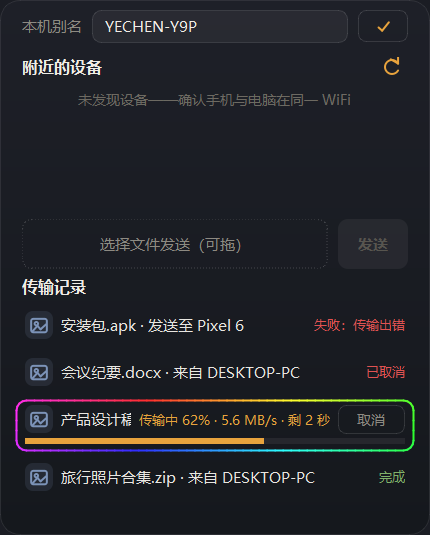
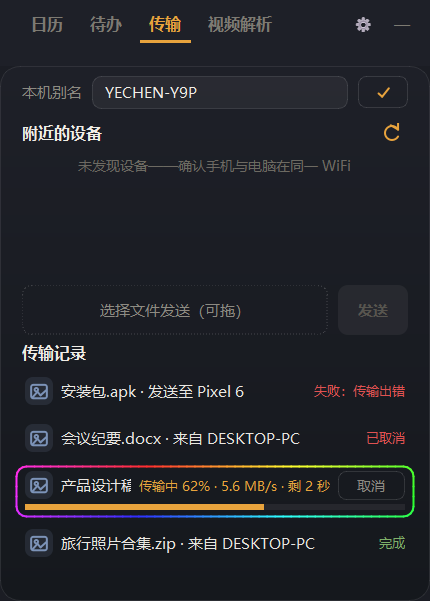
docs(readme): 截图表格加标题行，传输/视频图补上顶部 tab 栏

diff --git a/selfshot.py b/selfshot.py
@@ -17,7 +17,7 @@ import threading
 from datetime import date, datetime, timedelta
 
 from PySide6.QtCore import Qt, QTimer, QPoint, QBuffer
-from PySide6.QtGui import QImage, QPainter, QColor, QFont
+from PySide6.QtGui import QImage, QPainter, QColor, QFont, QPixmap
 from PySide6.QtWidgets import QApplication, QMenu
 
 import app as ui
@@ -58,6 +58,34 @@ def run(shot_dir, panel, cfg, tstore, qapp):
     os.makedirs(shot_dir, exist_ok=True)
     runner = _Runner(shot_dir, panel, cfg, tstore, qapp)
     runner.start()
+
+
+class _ComboShot(object):
+    """标题栏 + 面板拼成一张图：标题栏是独立顶层窗口，分别 grab 后纵向拼接。"""
+
+    def __init__(self, panel):
+        self._p = panel
+
+    def ensurePolished(self):
+        self._p.titlebar.ensurePolished()
+        self._p.ensurePolished()
+
+    def width(self):
+        return max(self._p.titlebar.width(), self._p.width())
+
+    def height(self):
+        return self._p.titlebar.height() + self._p.height()
+
+    def grab(self):
+        tb = self._p.titlebar.grab()
+        pn = self._p.grab()
+        pm = QPixmap(max(tb.width(), pn.width()), tb.height() + pn.height())
+        pm.fill(Qt.transparent)
+        pt = QPainter(pm)
+        pt.drawPixmap(0, 0, tb)
+        pt.drawPixmap(0, tb.height(), pn)
+        pt.end()
+        return pm
 
 
 class _FakeBoxMgr(object):
@@ -182,8 +210,9 @@ class _Runner(object):
                      lambda: (p.set_tab(2, save=False), self._make_busy_transfer()),
                      lambda: p, teardown=self._clear_busy_transfer)
             self.job('%s_transfer_records' % theme, 400,
-                     lambda: (p.set_tab(2, save=False), self._make_records_transfer()),
-                     lambda: p, teardown=self._clear_records_transfer)
+                     lambda: (p.set_tab(2, save=False), self._make_records_transfer(),
+                              p._slide_titlebar(True)),
+                     lambda: _ComboShot(p), teardown=self._clear_records_transfer)
             self.job('%s_video' % theme, 400,
                      lambda: p.set_tab(3, save=False), lambda: p)
             self.job('%s_video_parsed' % theme, 400,
@@ -344,6 +373,7 @@ class _Runner(object):
             self._rec_keys.append(key)
 
     def _clear_records_transfer(self):
+        self.panel._slide_titlebar(False)
         try:
             t = self.panel.transfer
             for key in getattr(self, '_rec_keys', []):

diff --git a/README.md b/README.md
@@ -10,9 +10,14 @@ Windows 桌面整理工具：桌面格子 + 悬浮面板（日历 / 待办 / 传
 
 <table>
   <tr>
-    <td align="center"><a href="assets/box.png"><img src="assets/box.png" width="260" alt="桌面格子"></a><br><b>桌面格子</b></td>
-    <td align="center"><a href="assets/transfer.png"><img src="assets/transfer.png" width="260" alt="文件传输"></a><br><b>文件传输</b></td>
-    <td align="center"><a href="assets/video.png"><img src="assets/video.png" width="260" alt="视频解析"></a><br><b>视频解析</b></td>
+    <th align="center">桌面格子</th>
+    <th align="center">文件传输</th>
+    <th align="center">视频解析</th>
+  </tr>
+  <tr>
+    <td><a href="assets/box.png"><img src="assets/box.png" width="260" alt="桌面格子"></a></td>
+    <td><a href="assets/transfer.png"><img src="assets/transfer.png" width="260" alt="文件传输"></a></td>
+    <td><a href="assets/video.png"><img src="assets/video.png" width="260" alt="视频解析"></a></td>
   </tr>
 </table>
 
